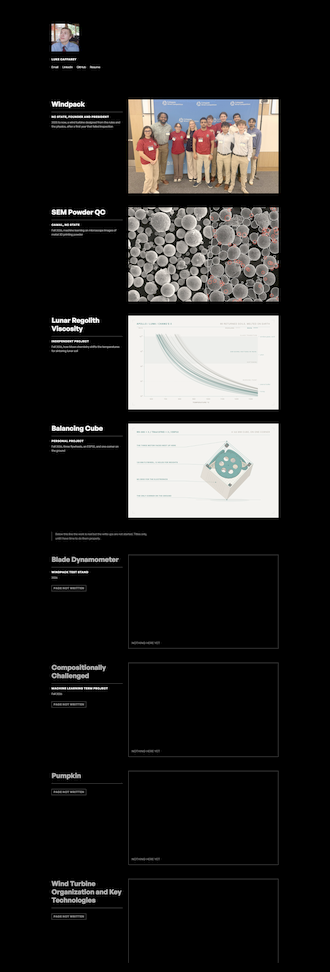
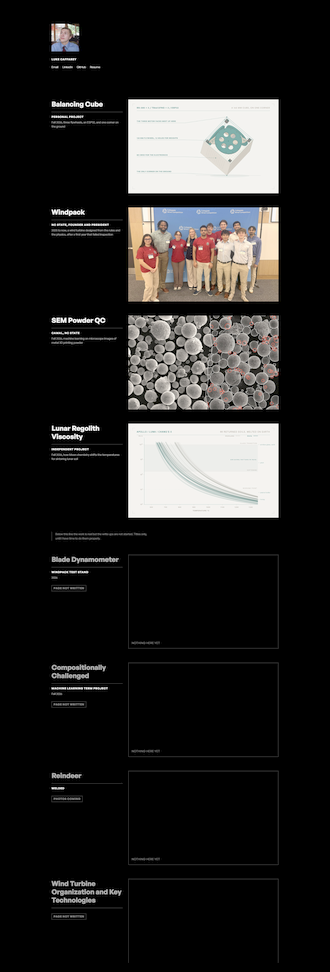
Put the Cube first, show its build, and swap Pumpkin for Reindeer
Homepage: Balancing Cube is now the first project and Windpack second.
The Pumpkin stub becomes Reindeer (welded), waiting on its photos.
Portfolio minimap retaken.

Cube page: a ninth step, "Off the paper", after the power-up checklist.
Seven phone photos from Nov 19 to 21: the Reaction Cube Carrier v1 board,
the motors clamped down with the wheels off, and everything inside the
shell with the thumbs-up inlay on top. Photos are cut to web size with the
phone metadata stripped.

diff --git a/projects/balancing-cube.html b/projects/balancing-cube.html
@@ -36,6 +36,7 @@
     <li><a href="#s6"><i></i><span>Wiring</span></a></li>
     <li><a href="#s7"><i></i><span>The battery</span></a></li>
     <li><a href="#s8"><i></i><span>Power-up</span></a></li>
+    <li><a href="#s9"><i></i><span>The build</span></a></li>
   </ol>
 </nav>
 
@@ -51,7 +52,7 @@
       <div><dt>Type</dt><dd>Personal project</dd></div>
       <div><dt>Brain</dt><dd>ESP32, MPU-6050</dd></div>
       <div><dt>Muscle</dt><dd>3 RS-385 motors, 3 TB6612FNG drivers</dd></div>
-      <div><dt>When</dt><dd>Oct 2026</dd></div>
+      <div><dt>When</dt><dd>Oct to Nov 2026</dd></div>
     </dl>
     <div class="case-cover">
       <img src="/assets/covers/balancing-cube.jpg" width="1600" height="1000"
@@ -79,7 +80,7 @@
         <div>
           <p class="tldr-k">What I built</p>
           <p>A shell that checks its own fit, faces with an inlaid drawing that print in one go,
-          and a full wiring and power plan for the electronics.</p>
+          and a wiring and power plan that became its own circuit board.</p>
         </div>
       </div>
     </section>
@@ -579,6 +580,64 @@
         <li><label><input type="checkbox"><span class="box"></span><span class="txt">Every ground is common, including the ESP32 and the battery&#8217;s negative.</span></label></li>
         <li><label><input type="checkbox"><span class="box"></span><span class="txt">The motors are clamped down and the wheels are off.</span></label></li>
       </ul>
+    </section>
+
+    <section class="beat" id="s9">
+      <h2><span class="step-n">09</span>Off the paper</h2>
+
+      <p>The drawing from step 06 is now a circuit board, <strong>Reaction Cube Carrier
+      v1</strong>. Everything on the paper has a place on it: the ESP32 with its antenna end
+      marked, the MPU-6050, the three TB6612FNG boards, the 5 A fuse right after the battery
+      terminal, a switch, the 5 V regulator, a terminal for each motor, and a three pin header for
+      a strip of LEDs.</p>
+
+      <div class="figs three">
+        <figure>
+          <img src="/assets/cube/board.jpg" width="900" height="1200" loading="lazy"
+               alt="The Reaction Cube Carrier v1 board from above: an ESP32 at the bottom left, an MPU-6050 above it, three red TB6612FNG boards in a column, the 5 A fuse with the battery, switch and LED terminals along the top, and a terminal for each motor down the right side.">
+          <figcaption>Reaction Cube Carrier v1, with every part from the drawing in place.</figcaption>
+        </figure>
+        <figure>
+          <img src="/assets/cube/board-frame.jpg" width="900" height="1200" loading="lazy"
+               alt="The board screwed to a white printed frame on one of the black plain faces, with red and black wires running to its terminals.">
+          <figcaption>On a printed frame, screwed to one of the plain faces.</figcaption>
+        </figure>
+        <figure>
+          <img class="low" src="/assets/cube/board-usb.jpg" width="900" height="1200" loading="lazy"
+               alt="The board on a USB cable, with the red power lights on the ESP32 and the MPU-6050 lit, and three green wires added across it.">
+          <figcaption>On USB power. The ESP32 and the gyro light up.</figcaption>
+        </figure>
+      </div>
+
+      <p>The last line of the checklist, in a photo: all three motors standing in their printed
+      bridges, held down with spring clamps, and nothing on the shafts.</p>
+
+      <figure class="fig">
+        <img src="/assets/cube/bench.jpg" width="1600" height="1200" loading="lazy"
+             alt="Three white motor bridges on a shop bench, each with a motor standing in it, laid over black flywheels and held with blue spring clamps. Wires run from the motors back toward the board.">
+        <figcaption>Motors held down, wheels off.</figcaption>
+      </figure>
+
+      <p>Then all of it goes in the shell. The board rides on one plain face, a wheel sits inside
+      each motor face, and the drawing from step 05 is on the outside.</p>
+
+      <div class="figs three">
+        <figure>
+          <img src="/assets/cube/shell-open.jpg" width="900" height="1200" loading="lazy"
+               alt="The black printed shell, open on one side, with the board on one wall and a white motor bridge and a black flywheel inside, wires running between them.">
+          <figcaption>The shell, open on one side.</figcaption>
+        </figure>
+        <figure>
+          <img src="/assets/cube/shell-top.jpg" width="900" height="1200" loading="lazy"
+               alt="The top face of the black shell with the thumbs-up drawing inlaid in white, and the board and a motor bridge visible underneath it.">
+          <figcaption>The thumbs-up from step 05, inlaid in white on the top face.</figcaption>
+        </figure>
+        <figure>
+          <img src="/assets/cube/shell-wiring.jpg" width="900" height="1200" loading="lazy"
+               alt="Inside the shell: red, black and green wires between the board on one wall and the motor bridges, with a flywheel just under the top face.">
+          <figcaption>A lot of wire for 165 mm.</figcaption>
+        </figure>
+      </div>
     </section>
 
     <nav class="case-nav">

diff --git a/index.html b/index.html
@@ -70,6 +70,19 @@
 <main class="work">
   <div class="col">
 
+    <a class="row" href="/projects/balancing-cube.html">
+      <div class="row-text">
+        <h2>Balancing Cube</h2>
+        <hr class="rule">
+        <p class="label">Personal project</p>
+        <p class="meta">Fall 2026, three flywheels, an ESP32, and one corner on the ground</p>
+      </div>
+      <span class="row-img">
+        <img src="/assets/covers/balancing-cube.jpg" width="1600" height="1000" loading="lazy"
+             alt="Render of the cube standing on one corner, a flywheel visible through its glass drawn faces">
+      </span>
+    </a>
+
     <a class="row" href="/projects/windpack.html">
       <div class="row-text">
         <h2>Windpack</h2>
@@ -109,19 +122,6 @@
       </span>
     </a>
 
-    <a class="row" href="/projects/balancing-cube.html">
-      <div class="row-text">
-        <h2>Balancing Cube</h2>
-        <hr class="rule">
-        <p class="label">Personal project</p>
-        <p class="meta">Fall 2026, three flywheels, an ESP32, and one corner on the ground</p>
-      </div>
-      <span class="row-img">
-        <img src="/assets/covers/balancing-cube.jpg" width="1600" height="1000" loading="lazy"
-             alt="Render of the cube standing on one corner, a flywheel visible through its glass drawn faces">
-      </span>
-    </a>
-
     <div class="note">
       <p>Below this line the work is real but the write ups are not started. Titles only,
       until I have time to do them properly.</p>
@@ -151,9 +151,10 @@
 
     <div class="row stub">
       <div class="row-text">
-        <h2>Pumpkin</h2>
+        <h2>Reindeer</h2>
         <hr class="rule">
-        <p><span class="wip">Page not written</span></p>
+        <p class="label">Welded</p>
+        <p><span class="wip">Photos coming</span></p>
       </div>
       <span class="hold" aria-hidden="true"><span>Nothing here yet</span></span>
     </div>

diff --git a/assets/css/cube.css b/assets/css/cube.css
@@ -153,9 +153,18 @@
 .checks .txt { font-size: 15px; line-height: 1.6; color: var(--ink); transition: color 0.15s ease; }
 .checks input:checked ~ .txt { color: var(--muted); }
 
+/* --- the build: phone photos, three across ------------------------------------ */
+
+.figs.three { grid-template-columns: repeat(3, 1fr); }
+.figs.three img { width: 100%; aspect-ratio: 3 / 4; object-fit: cover; }
+
 /* --- narrow ---------------------------------------------------------------------- */
 
 @media (max-width: 760px) {
+  .figs.three { grid-template-columns: 1fr 1fr; gap: 14px; }
+  .figs.three figure:last-child:nth-child(odd) { grid-column: 1 / -1; }
+  .figs.three figure:last-child:nth-child(odd) img { aspect-ratio: 4 / 3; }
+  .figs.three img.low { object-position: 50% 85%; }  /* keep both lit LEDs in the wide crop */
   .bal-pads { grid-template-columns: 1fr 1fr; }
   .bal-read { grid-column: 1 / -1; grid-row: 1; margin-bottom: 4px; }
   .bal-pad { padding: 20px 8px; }
